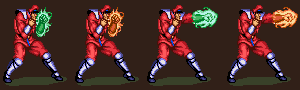
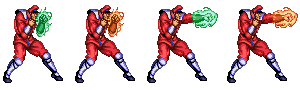
Project 59  (이미지 배경 삭제 / PauseState 수치 조정)
-스프라이트들의 배경 및 불필요한 부분 삭제하여 업데이트
-Pause 이미지를 교체, 그에 따른 크기와 위치값들 조정

diff --git a/Challenge! R.P.S/pause_state.py b/Challenge! R.P.S/pause_state.py
@@ -16,7 +16,7 @@ class Pause:
         self.x, self.y, self.w, self.h = 400, 300, 150, 150
 
     def draw(self):
-        self.image.clip_draw(0, 0, 900, 900, self.x, self.y, self.w, self.h)
+        self.image.clip_draw(0, 0, 225, 225, self.x, self.y, self.w, self.h)
 
     def update(self):
         pass
@@ -25,7 +25,7 @@ class Pause:
 class Restart:
     def __init__(self):
         self.image = load_image('resource_pause\Restart.png')
-        self.x, self.y, self.w, self.h = 370, 150, 100, 50
+        self.x, self.y, self.w, self.h = 400, 150, 100, 50
 
     def draw(self):
         self.image.clip_draw(0, 0, 230, 40, self.x, self.y, self.w, self.h)
@@ -37,7 +37,7 @@ class Restart:
 class Quit:
     def __init__(self):
         self.image = load_image('resource_pause\quit.png')
-        self.x, self.y, self.w, self.h = 530, 150, 100, 50
+        self.x, self.y, self.w, self.h = 600, 150, 100, 50
 
     def draw(self):
         self.image.clip_draw(0, 0, 230, 40, self.x, self.y, self.w, self.h)
